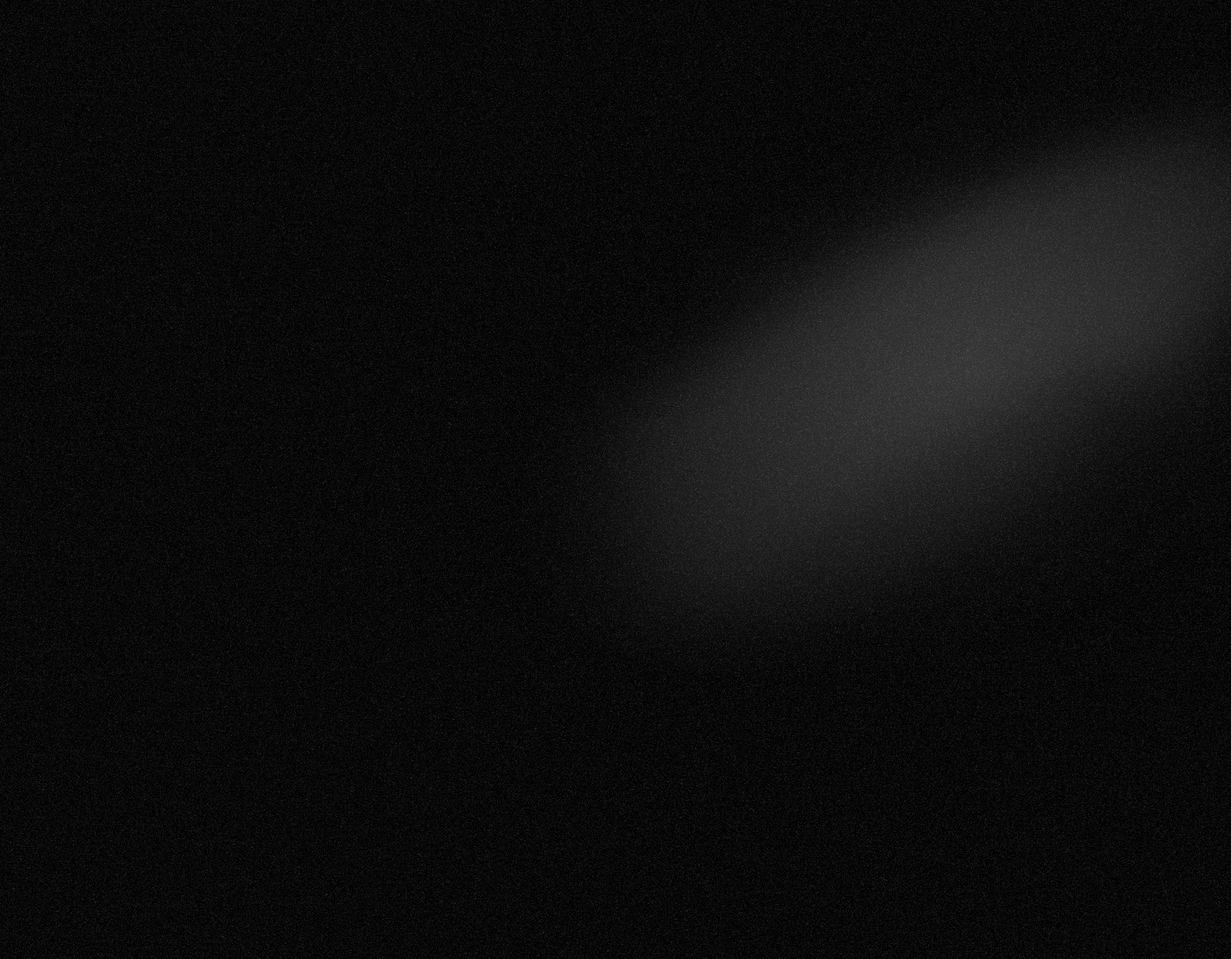
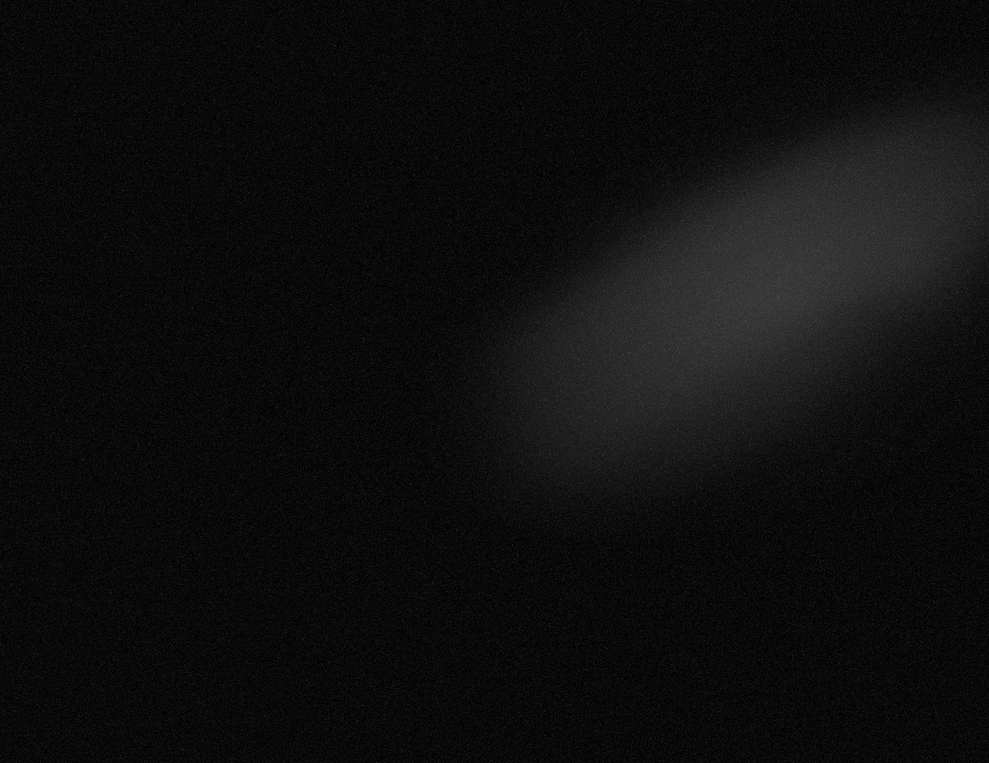
Тест картинок на качество

diff --git a/css/style.css b/css/style.css
@@ -214,7 +214,7 @@ h2 {
 }
 
 .properties {
-    background: url("../images/background-properties-1920x1144.webp") no-repeat;
+    background: url("../images/background-properties.png") no-repeat;
     background-position: top;
     background-size: cover;
 }
@@ -286,7 +286,7 @@ h2 {
 }
 
 .application {
-    background: url("../images/background-application-1920x902.webp") no-repeat;
+    background: url("../images/background-application.png") no-repeat;
     background-position: top;
     background-size: cover;
 }
@@ -355,7 +355,7 @@ h2 {
 }
 
 .about {
-    background: url("../images/background-about-1920x1481.webp") no-repeat;
+    background: url("../images/background-about.png") no-repeat;
     background-position: top;
     background-size: cover;
 
@@ -420,7 +420,7 @@ h2 {
 }
 
 .advantages {
-    background: url("../images/background-1920x655.webp") no-repeat;
+    background: url("../images/background.png") no-repeat;
     background-position: top;
     background-size: cover;
 }
@@ -473,7 +473,7 @@ h2 {
 }
 
 .make-step {
-    background: url("../images/background-make-step-1920x947.webp") no-repeat;
+    background: url("../images/background-make-step.png") no-repeat;
     background-position: top;
     background-size: cover;
 }
@@ -488,7 +488,7 @@ h2 {
 }
 
 .footer {
-    background: url("../images/background-1920x655.webp") no-repeat;
+    background: url("../images/background.png") no-repeat;
     background-position: top;
     background-size: cover;
 }

diff --git a/index.html b/index.html
@@ -1,5 +1,5 @@
 <!DOCTYPE html>
-<html lang="en">
+<html lang="ru">
 <head>
   <meta charset="UTF-8">
   <meta name="viewport" content="width=device-width, initial-scale=1.0">
@@ -216,11 +216,11 @@
           </div>
           <div class="email__inner">
             <h2 class="mail__title text-gradient visually-hidden">email:</h2>
-            <a href="mailto: royal.genesis@bk.ru" class="email__text text-gradient">royal.genesis@bk.ru</a>
+            <a href="mailto:royal.genesis@bk.ru" class="email__text text-gradient">royal.genesis@bk.ru</a>
           </div>
           <div class="phone__inner">
-            <h2 class="phone__title text-gradient visually-hidden"></h2>
-            <a href="tel: +79992223355" class="phone__text text-gradient">+7(999)222-33-55</a>
+            <h2 class="phone__title text-gradient visually-hidden">Телефон</h2>
+            <a href="tel:+79992223355" class="phone__text text-gradient">+7(999)222-33-55</a>
           </div>
         </section>
       </div>
